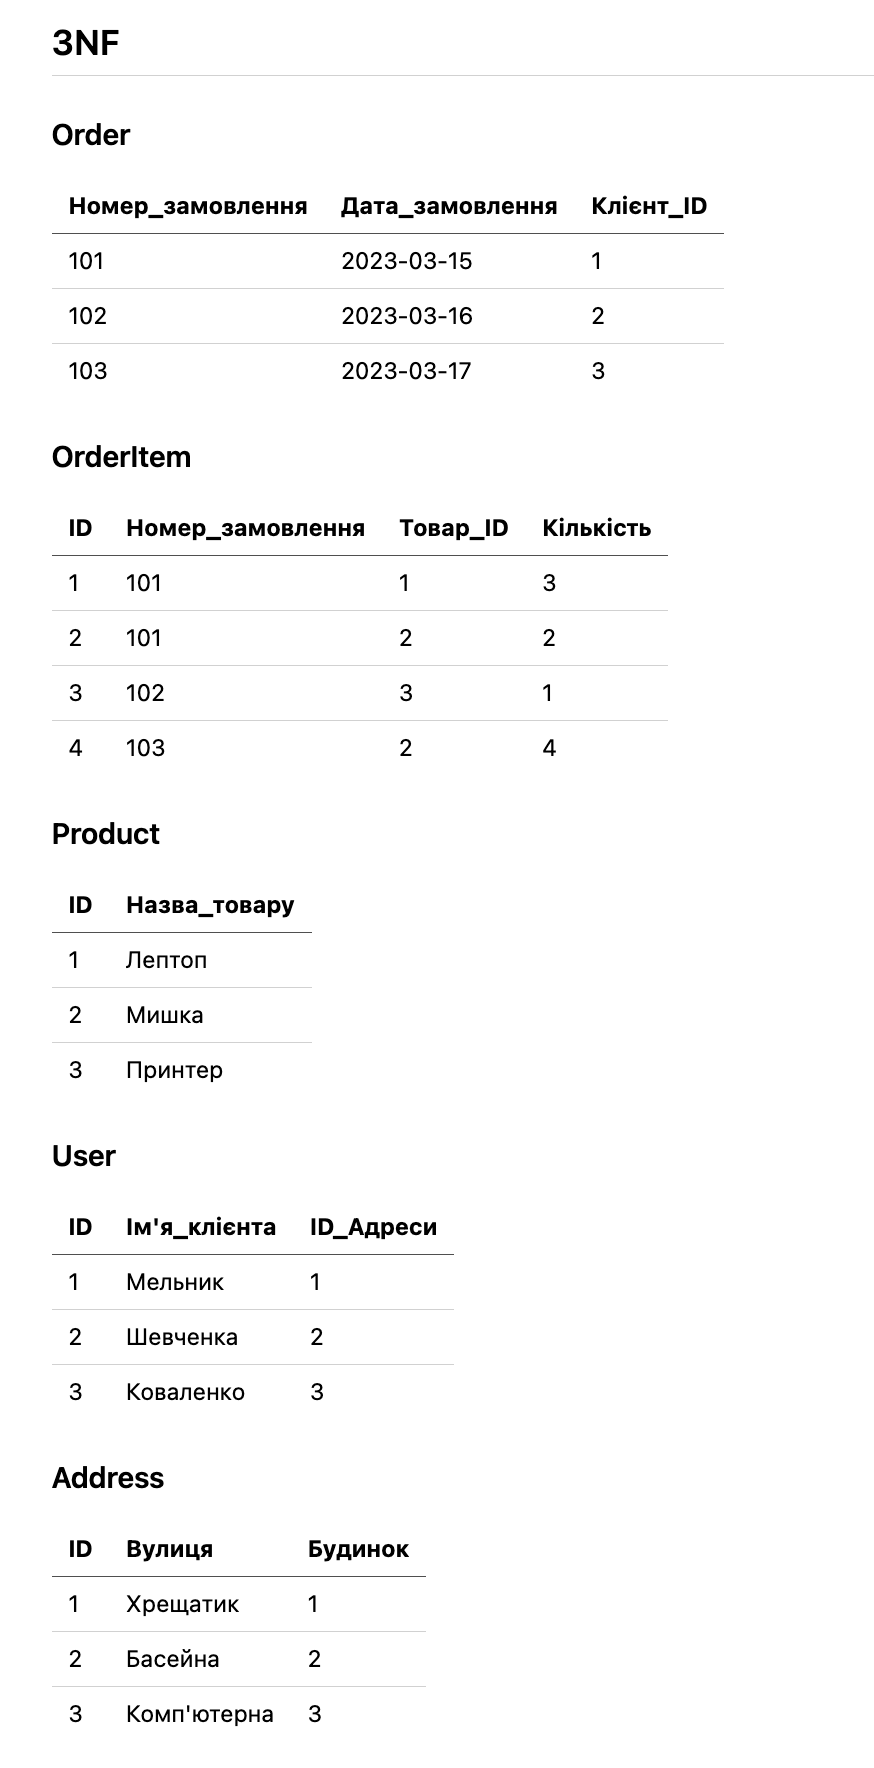
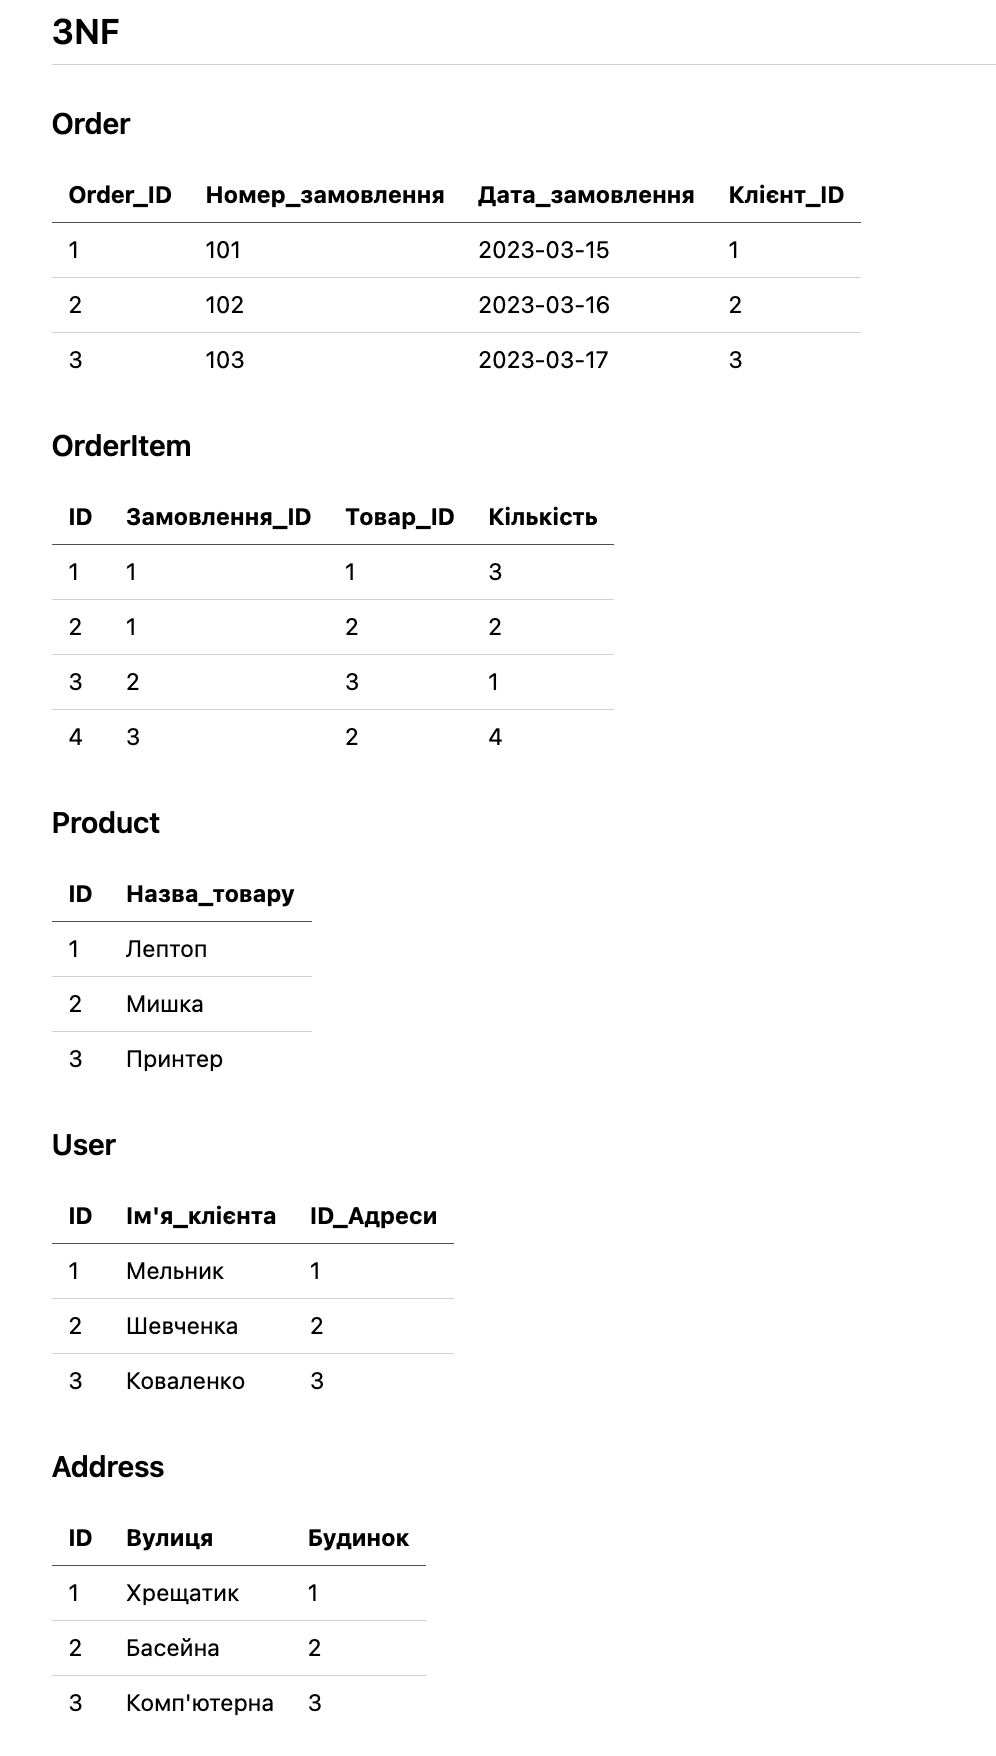
add order id

diff --git a/README.md b/README.md
@@ -48,20 +48,20 @@
 
 ### Order
 
-| Номер_замовлення | Дата_замовлення | Клієнт_ID |
-| ---------------- | --------------- | --------- |
-| 101              | 2023-03-15      | 1         |
-| 102              | 2023-03-16      | 2         |
-| 103              | 2023-03-17      | 3         |
+| Order_ID | Номер_замовлення | Дата_замовлення | Клієнт_ID |
+| -------- | ---------------- | --------------- | --------- |
+| 1        | 101              | 2023-03-15      | 1         |
+| 2        | 102              | 2023-03-16      | 2         |
+| 3        | 103              | 2023-03-17      | 3         |
 
 ### OrderItem
 
-| ID  | Номер_замовлення | Товар_ID | Кількість |
-| --- | ---------------- | -------- | --------- |
-| 1   | 101              | 1        | 3         |
-| 2   | 101              | 2        | 2         |
-| 3   | 102              | 3        | 1         |
-| 4   | 103              | 2        | 4         |
+| ID  | Замовлення_ID | Товар_ID | Кількість |
+| --- | ------------- | -------- | --------- |
+| 1   | 1             | 1        | 3         |
+| 2   | 1             | 2        | 2         |
+| 3   | 2             | 3        | 1         |
+| 4   | 3             | 2        | 4         |
 
 ### Product
 
